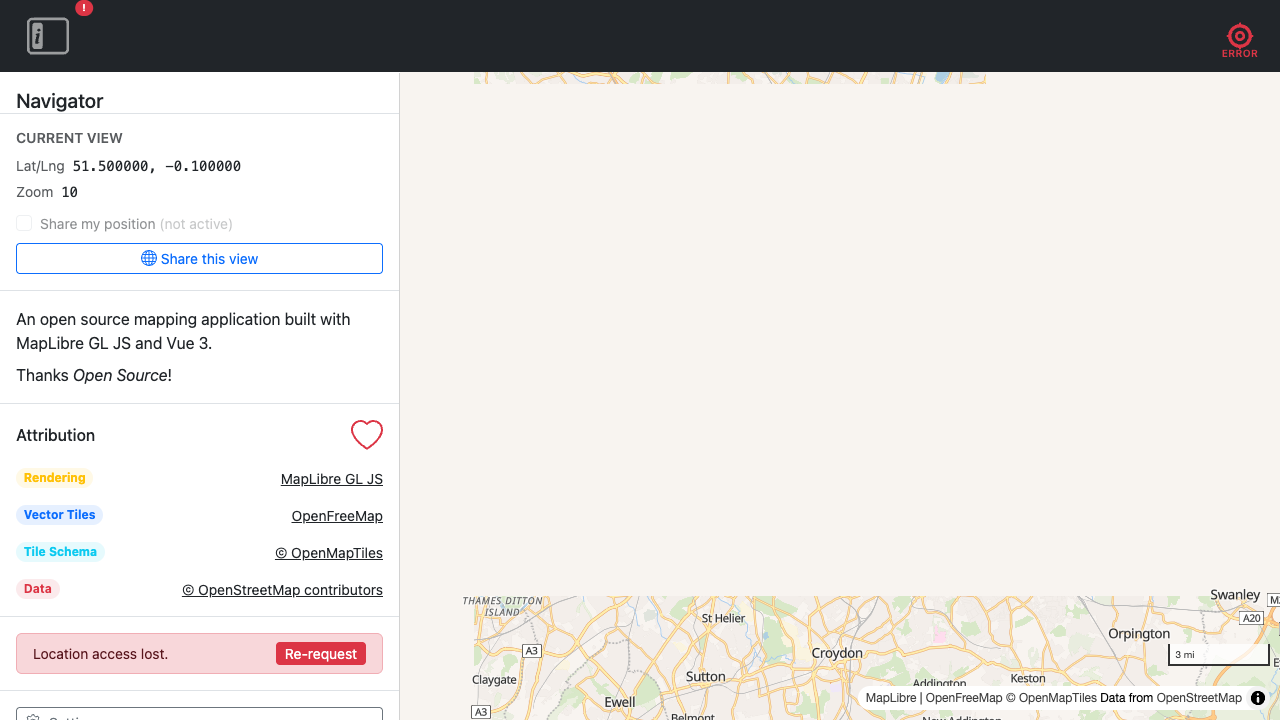
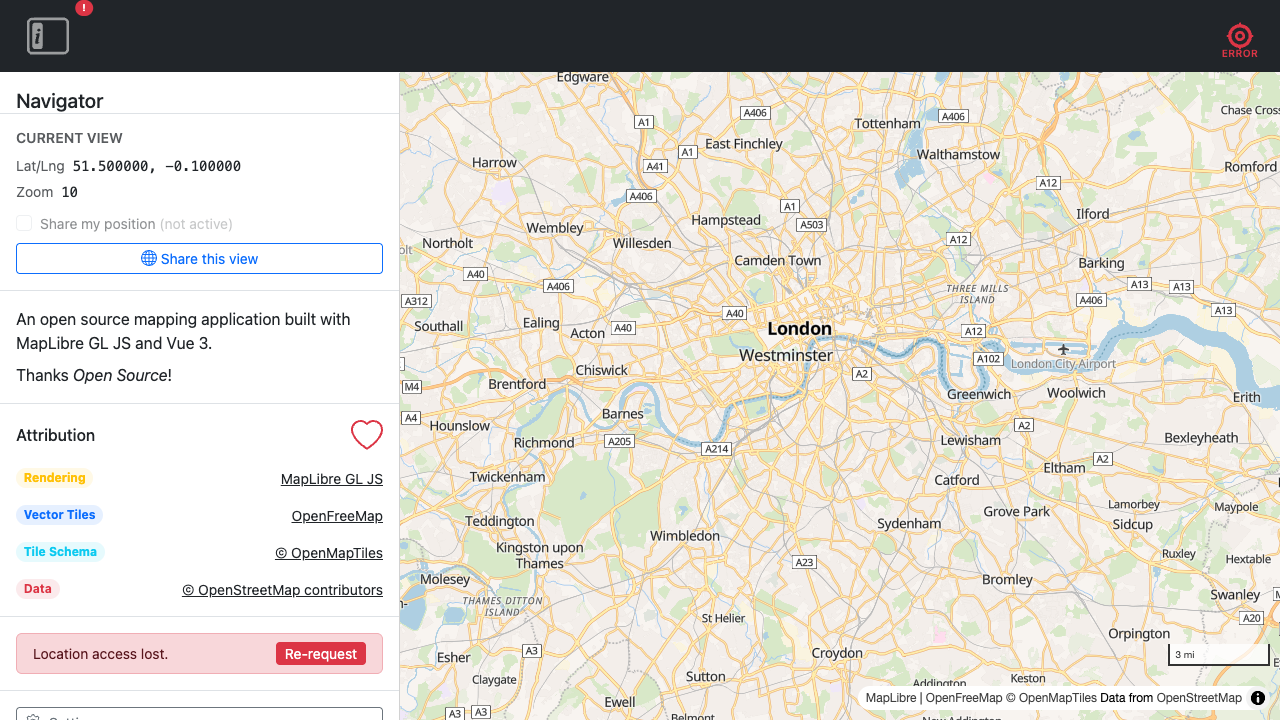
Go to position on Locate

Changed region(s): [[0.3125, 0.0917, 1.0, 1.0], [0.3125, 0.2444, 0.3438, 0.275]]

diff --git a/tests/e2e/features/locate.spec.js b/tests/e2e/features/locate.spec.js
@@ -183,6 +183,68 @@ test.describe("Locate / Active and Following states", () => {
     });
 });
 
+// ─── Locate / Initial zoom ───────────────────────────────────────────────────
+
+test.describe("Locate / Initial zoom", () => {
+    test("map flies to the user's position at zoom 16 on first fix", async ({
+        page,
+    }) => {
+        await withGrantedStorage(page);
+        await grantGeolocation(page, { latitude: 51.5, longitude: -0.1 });
+        await page.goto("/");
+        await page.waitForLoadState("networkidle");
+
+        await page.locator("#locate-button").click();
+
+        await expect
+            .poll(() => page.locator("#locate-button").textContent(), {
+                timeout: 5000,
+            })
+            .toMatch(/Located/);
+
+        await expect
+            .poll(() => page.url(), { timeout: 6000 })
+            .toMatch(/#map=16\//);
+    });
+
+    test("initial zoom fires again when locate is re-activated after stopping", async ({
+        page,
+    }) => {
+        await withGrantedStorage(page);
+        await grantGeolocation(page, { latitude: 51.5, longitude: -0.1 });
+        await page.goto("/");
+        await page.waitForLoadState("networkidle");
+
+        // First activation — map flies to zoom 16
+        await page.locator("#locate-button").click();
+        await expect
+            .poll(() => page.url(), { timeout: 6000 })
+            .toMatch(/#map=16\//);
+
+        // Stop locate (active → following → inactive)
+        await page.locator("#locate-button").click();
+        await page.locator("#locate-button").click();
+        await expect(page.locator("#locate-button")).toContainText("Locate");
+
+        // Move to a different location before re-activating
+        await page.context().setGeolocation({
+            latitude: 48.8566,
+            longitude: 2.3522,
+        });
+
+        // Re-activate — should zoom to 16 at the new position
+        await page.locator("#locate-button").click();
+        await expect
+            .poll(() => page.locator("#locate-button").textContent(), {
+                timeout: 5000,
+            })
+            .toMatch(/Located/);
+        await expect
+            .poll(() => page.url(), { timeout: 6000 })
+            .toMatch(/#map=16\/48\./);
+    });
+});
+
 // ─── Locate / Error state ─────────────────────────────────────────────────────
 
 test.describe("Locate / Error state", () => {

diff --git a/src/features/locate/useLocate.js b/src/features/locate/useLocate.js
@@ -38,6 +38,7 @@ export const useLocate = () => {
             headingLost: ref(false), // true when orientation events have stopped arriving
             smoothedHeading: null, // internal: raw float used for smoothing
             magneticDeclination: 0, // degrees East; corrects webkitCompassHeading to true north
+            needsInitialZoom: false, // true until the first fix after activation
             headingTimeoutId: null, // timeout handle for heading-loss detection
             showConfirmModal: ref(false),
             showErrorModal: ref(false),
@@ -239,6 +240,12 @@ export const useLocate = () => {
             speed,
         });
 
+        if (c.needsInitialZoom) {
+            c.needsInitialZoom = false;
+            const map = getMapInstance(instanceId);
+            if (map) map.flyTo({ center: [longitude, latitude], zoom: 16 });
+        }
+
         syncMarkers();
 
         if (c.mode.value === "following") {
@@ -268,6 +275,7 @@ export const useLocate = () => {
             return;
         }
         c.mode.value = "active";
+        c.needsInitialZoom = true;
 
         // Request orientation permission (no-op on non-iOS) then start listening.
         // Both happen inside the same user-gesture call stack so iOS treats them

diff --git a/docs/features/locate.md b/docs/features/locate.md
@@ -33,6 +33,14 @@ The Error state is not part of the cycle. Clicking the Error button re-opens the
 
 ---
 
+## Initial zoom
+
+When the Locate button is pressed and the first position fix is successfully acquired, the map flies to the user's position at **zoom 16**. This ensures the user immediately sees their precise location without needing to adjust the zoom manually.
+
+The initial zoom fires only once per activation — on the very first fix after Locate is started. Subsequent fixes in **Active** mode do not move the map. In **Following** mode the map re-centres on every update at the current zoom level.
+
+---
+
 ## Permission flow
 
 Geolocation permission, once denied in a browser, is difficult to re-grant — particularly on mobile. To protect against accidental denial, the feature tracks whether the user has ever successfully shared their location, using `useStorage`.
